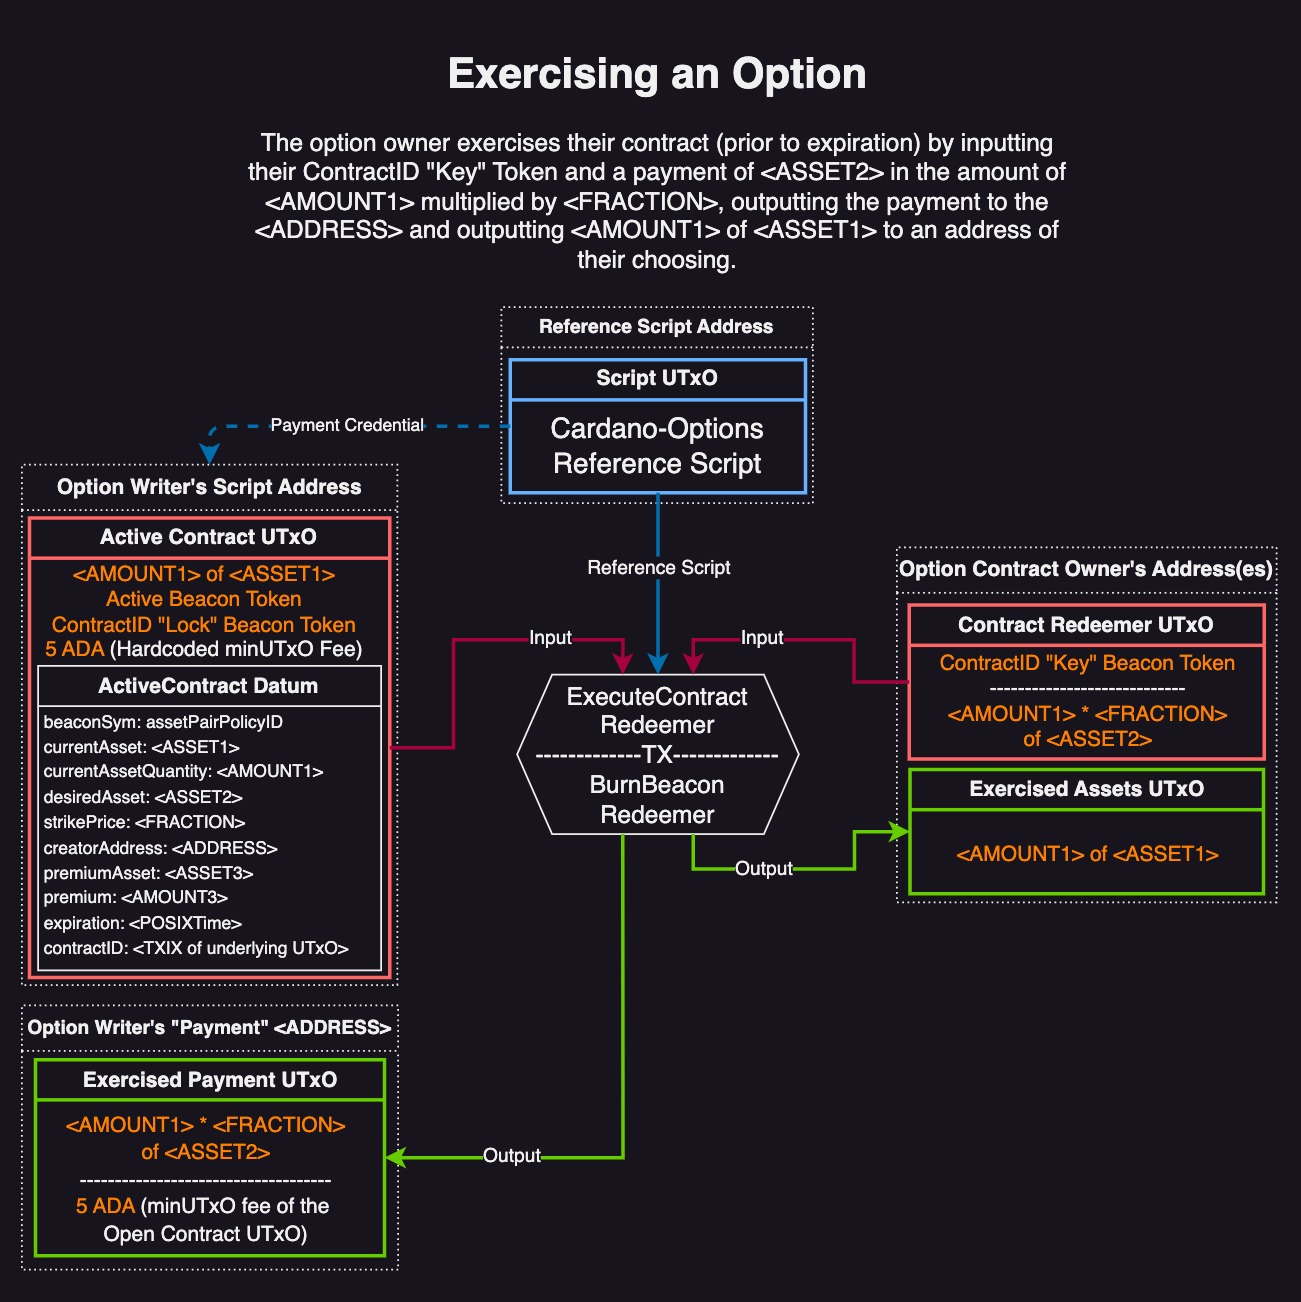
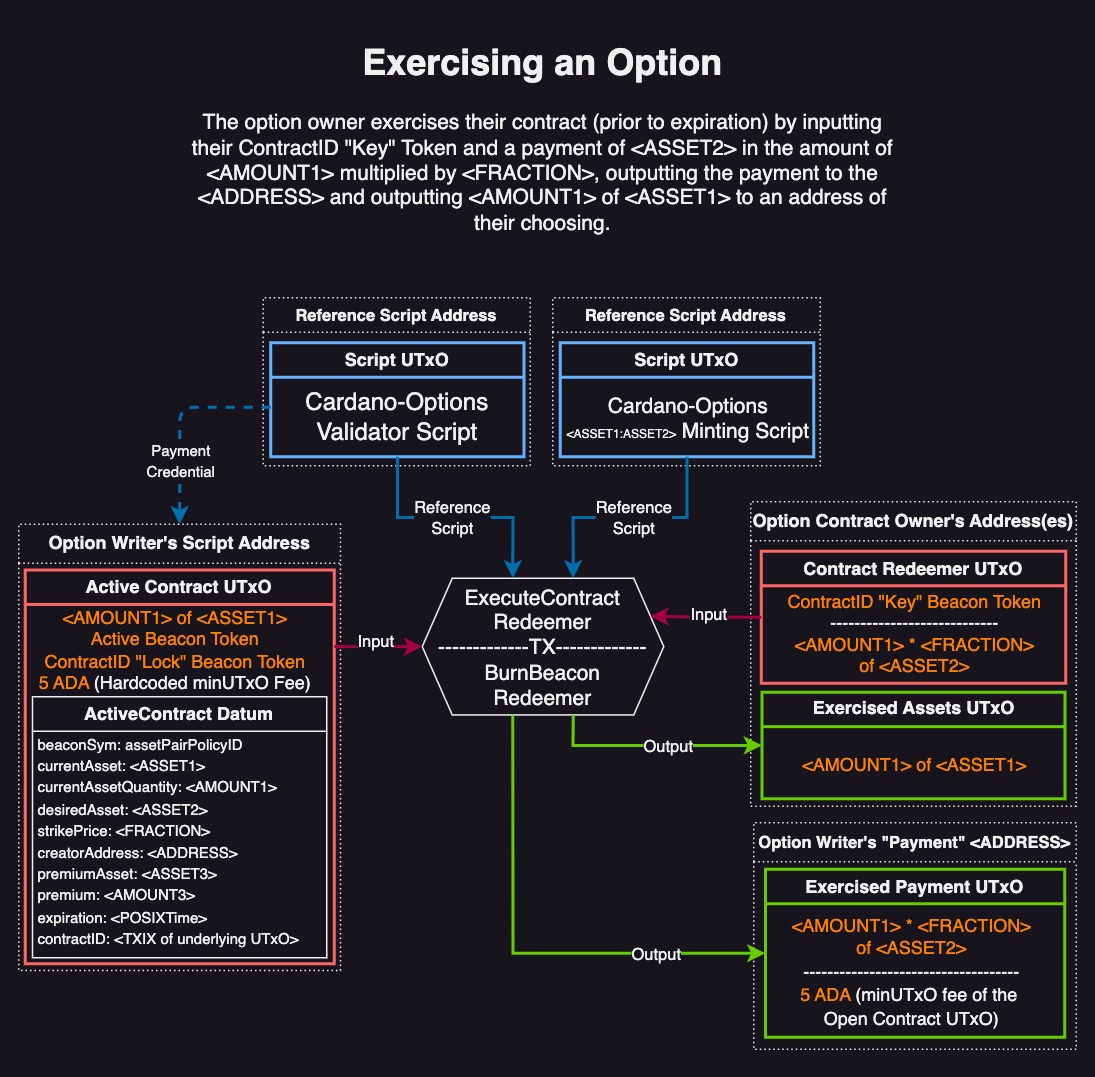
tweaks

Changed region(s): [[0.0, 0.2451, 0.9936, 0.9805], [0.1553, 0.0306, 0.8384, 0.2145], [0.3726, 0.8579, 0.4347, 0.9192]]

diff --git a/README.md b/README.md
@@ -41,7 +41,7 @@ An outline of the addresses, tokens, datums, and redeemers used in Cardano-Optio
 The option writer creates an address whose payment credential is that of the Cardano-Options script, and a unique staking credential (key or script). This address will contain UTxOs with assets that cover contracts, as well as UTxOs with proposed contract terms (in the form of datums). Contracts of varying asset-pairs can all be written from this one address. Beacon Tokens with policyIDs unique to each asset-pair are minted in each UTxO, and are used to differentiate asset-pairs during querying. Owner related actions are "overloaded" to the staking credential, and the writer maintains full delegation control over all assets in the address. This includes "Active"/Open contracts - these are locked in the address, but their stake is still under control of the writer. 
 
 #### Option Writer's Payment Address
-The Option writer must specify a regular pubkey address where they will payments. Premiums are when the option is bought, and full payment if/when the option is exercised. Script addresses cannot be used for this because Plutus currently requires that UTxOs in Plutus-guarded script addresses have attached datums. If a UTxO with the wrong (or no) datum ends up in a Plutus-guarded address, it will be locked forever. The contract exerciser cannot be trusted to output payments with proper datums, and enforcing this via Plutus is too resource-intensive. Therefore, writer's payment addresses are for now limited to simple key-based addresses.
+The Option writer must specify a regular pubkey address where they will receive payments. Premiums are when the option is bought, and full payment if/when the option is exercised. Script addresses cannot be used for this because Plutus currently requires that UTxOs in Plutus-guarded script addresses have attached datums. If a UTxO with the wrong (or no) datum ends up in a Plutus-guarded address, it will be locked forever. The contract exerciser cannot be trusted to output payments with proper datums, and enforcing this via Plutus is too resource-intensive. Therefore, writer's payment addresses are for now limited to simple key-based addresses.
 
 #### Beacon Tokens
 Cardano-Options uses 5 types of Beacon Tokens. All 5 have the same policy ID (unique for every asset pair), but different Token Names. The two Contract ID tokens have identical Token Names (unique for every contract). In addition to enforcing proper behavior, all of these tokens serve as Beacons:
